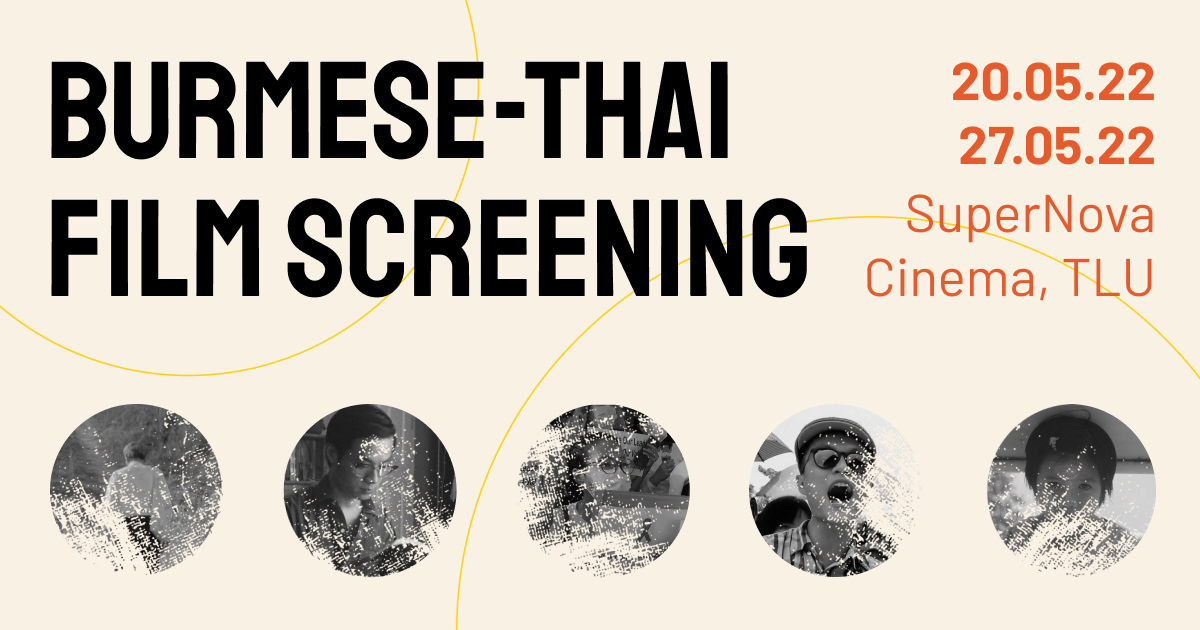
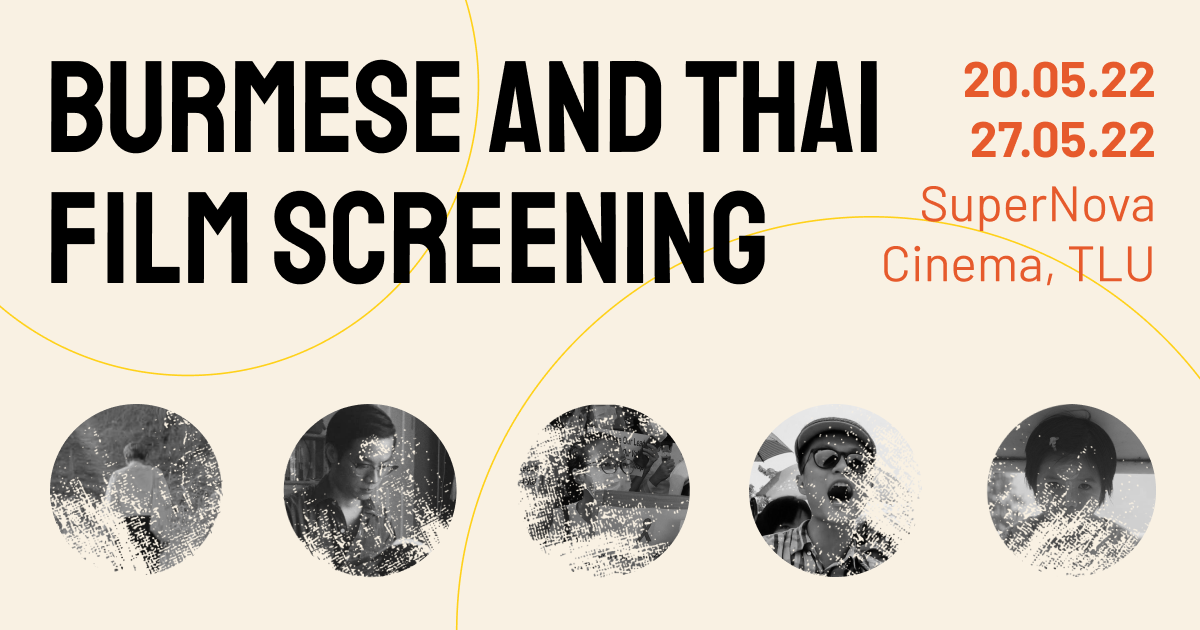
Fix film and event name typo

diff --git a/src/components/landing/hero.svelte b/src/components/landing/hero.svelte
@@ -4,7 +4,7 @@
 	const images = [
 		'Mr. Zero',
 		'Red Aninsri',
-		'Letter to san Zaw Htway',
+		'Letter to San Zaw Htway',
 		'Angry Folks',
 		'Ferris Wheel'
 	];
@@ -30,7 +30,7 @@
 		class="container max-w-screen-xl min-h-screen space-y-8 pt-12 -md:text-center md:(space-y-24 pt-24)"
 	>
 		<div class="flex flex-row">
-			<h1 class="typo-title">Burmese-Thai Film Screening</h1>
+			<h1 class="typo-title">Burmese and Thai Film Screening</h1>
 			<div class="typo-subtitle text-orange text-right space-y-4 -md:hidden">
 				<p class="font-bold">
 					20.05.22<br />27.05.22
